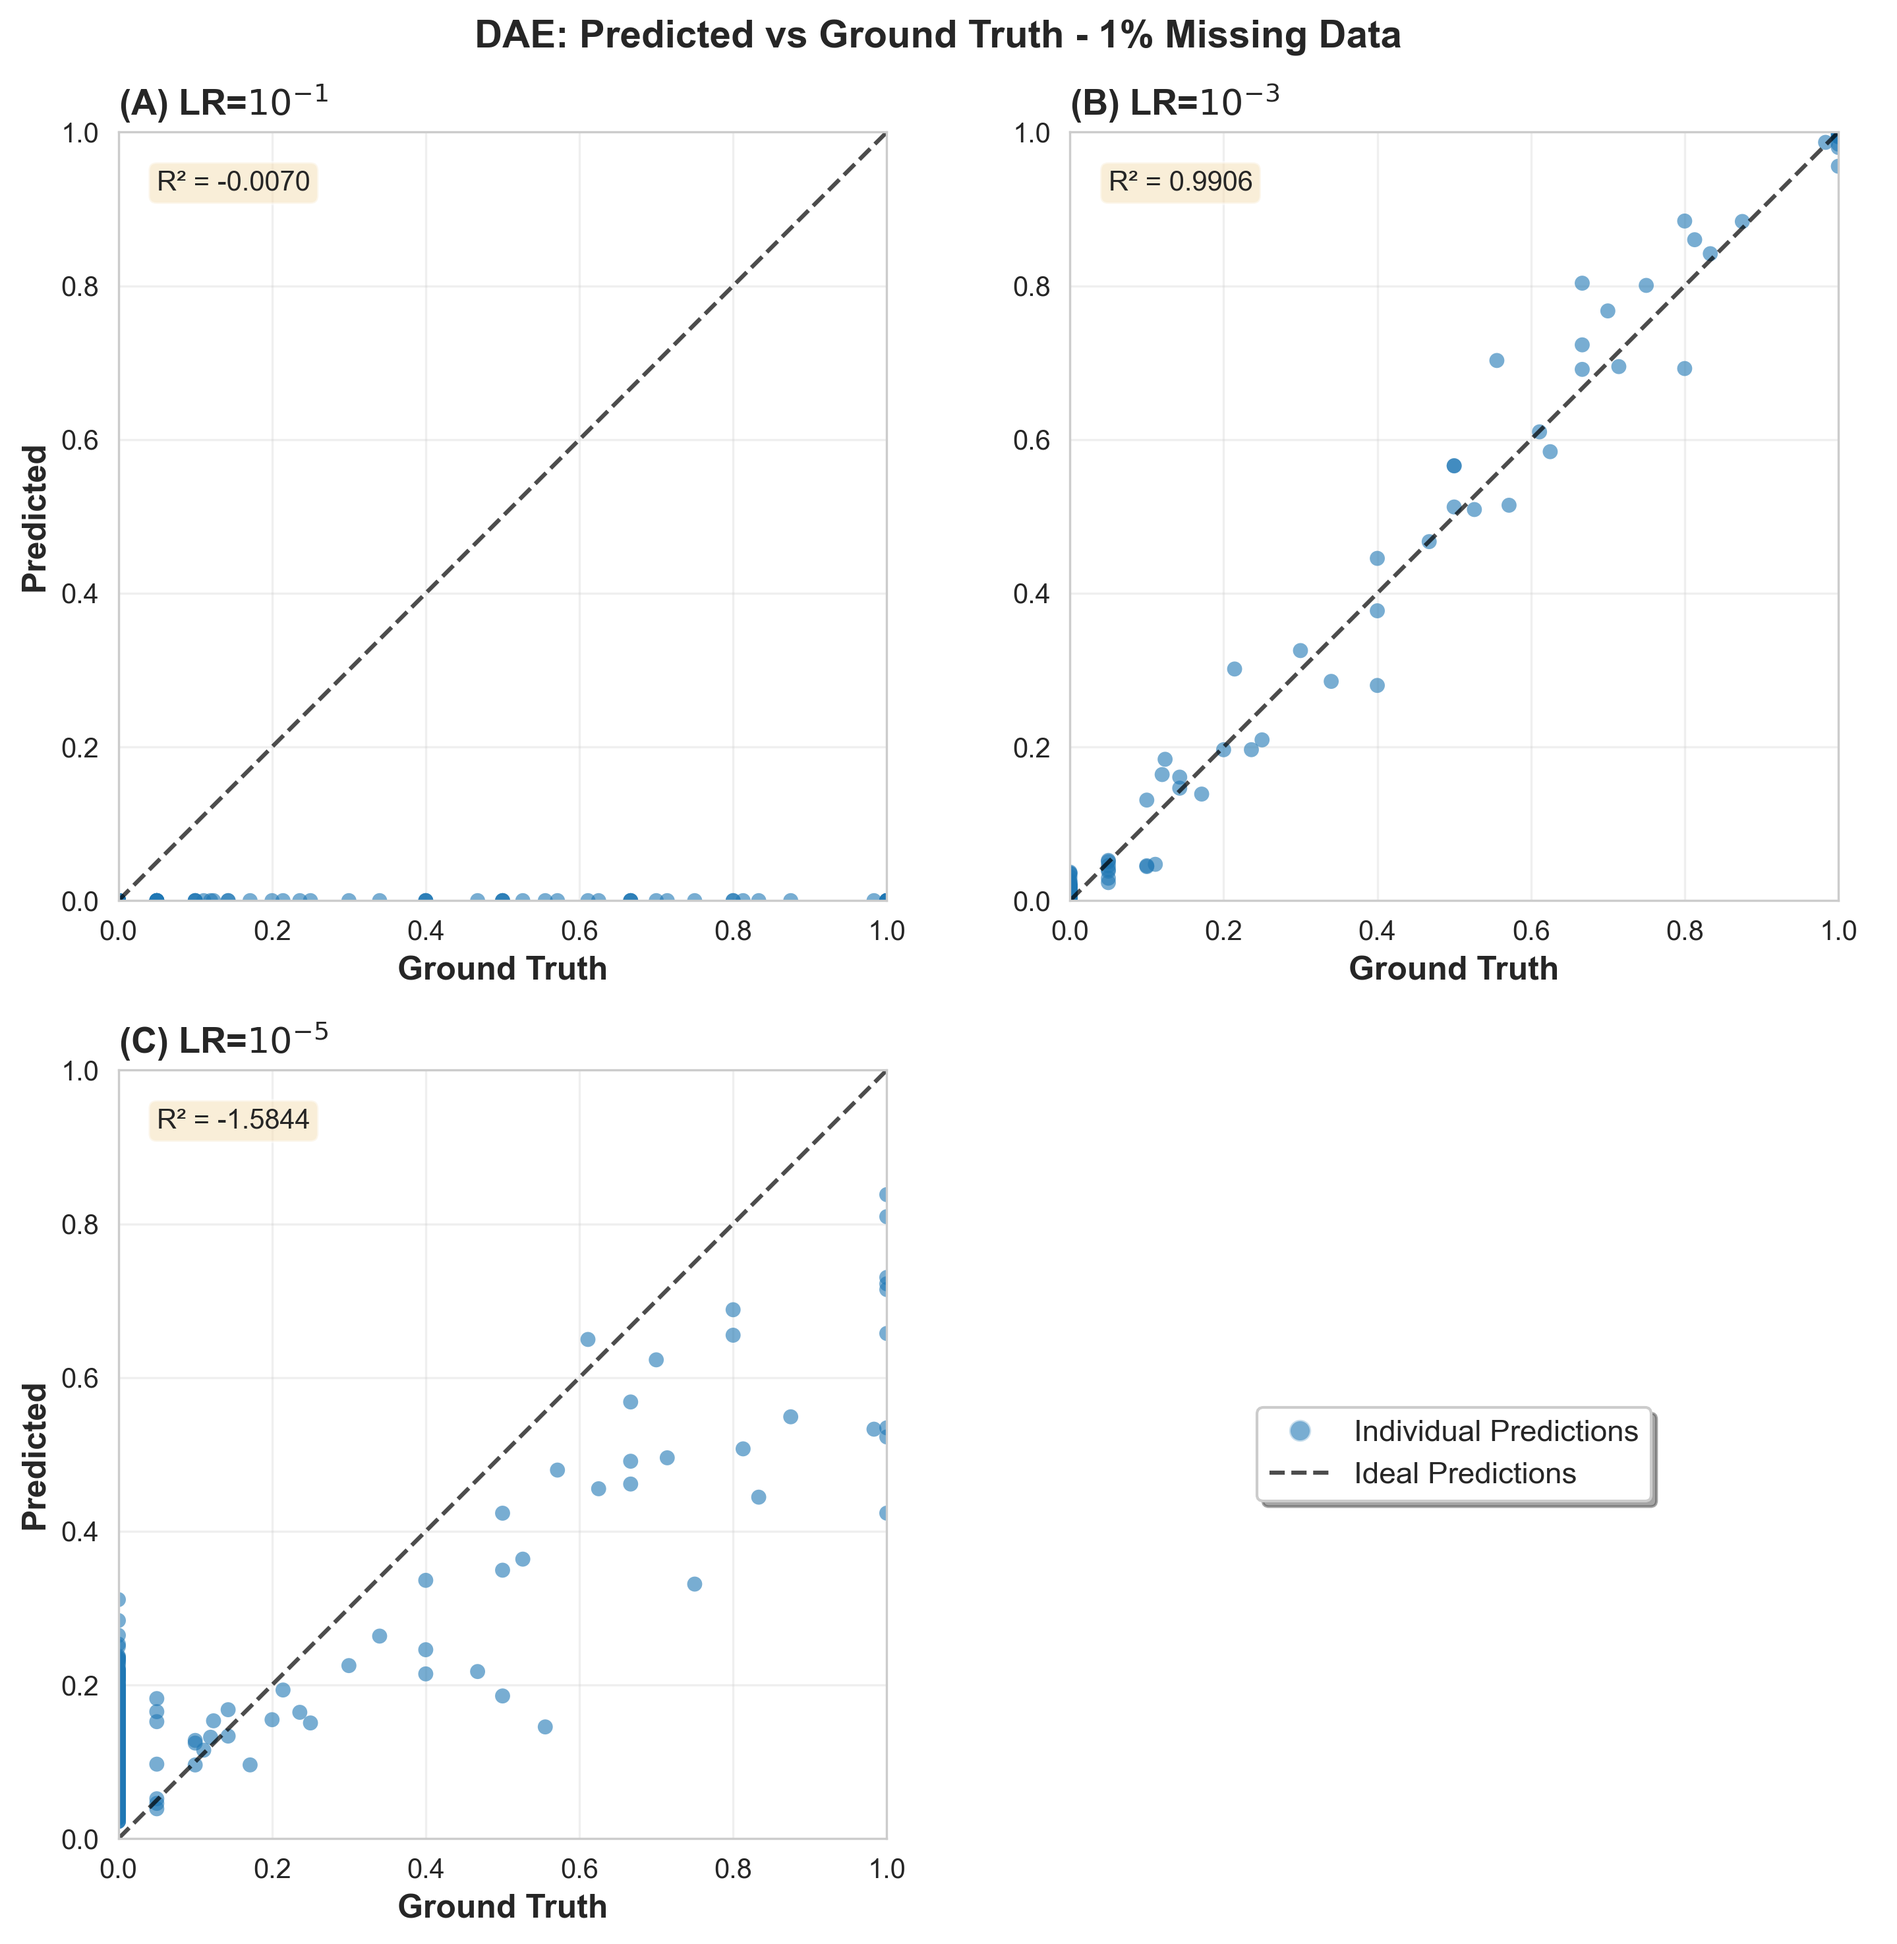
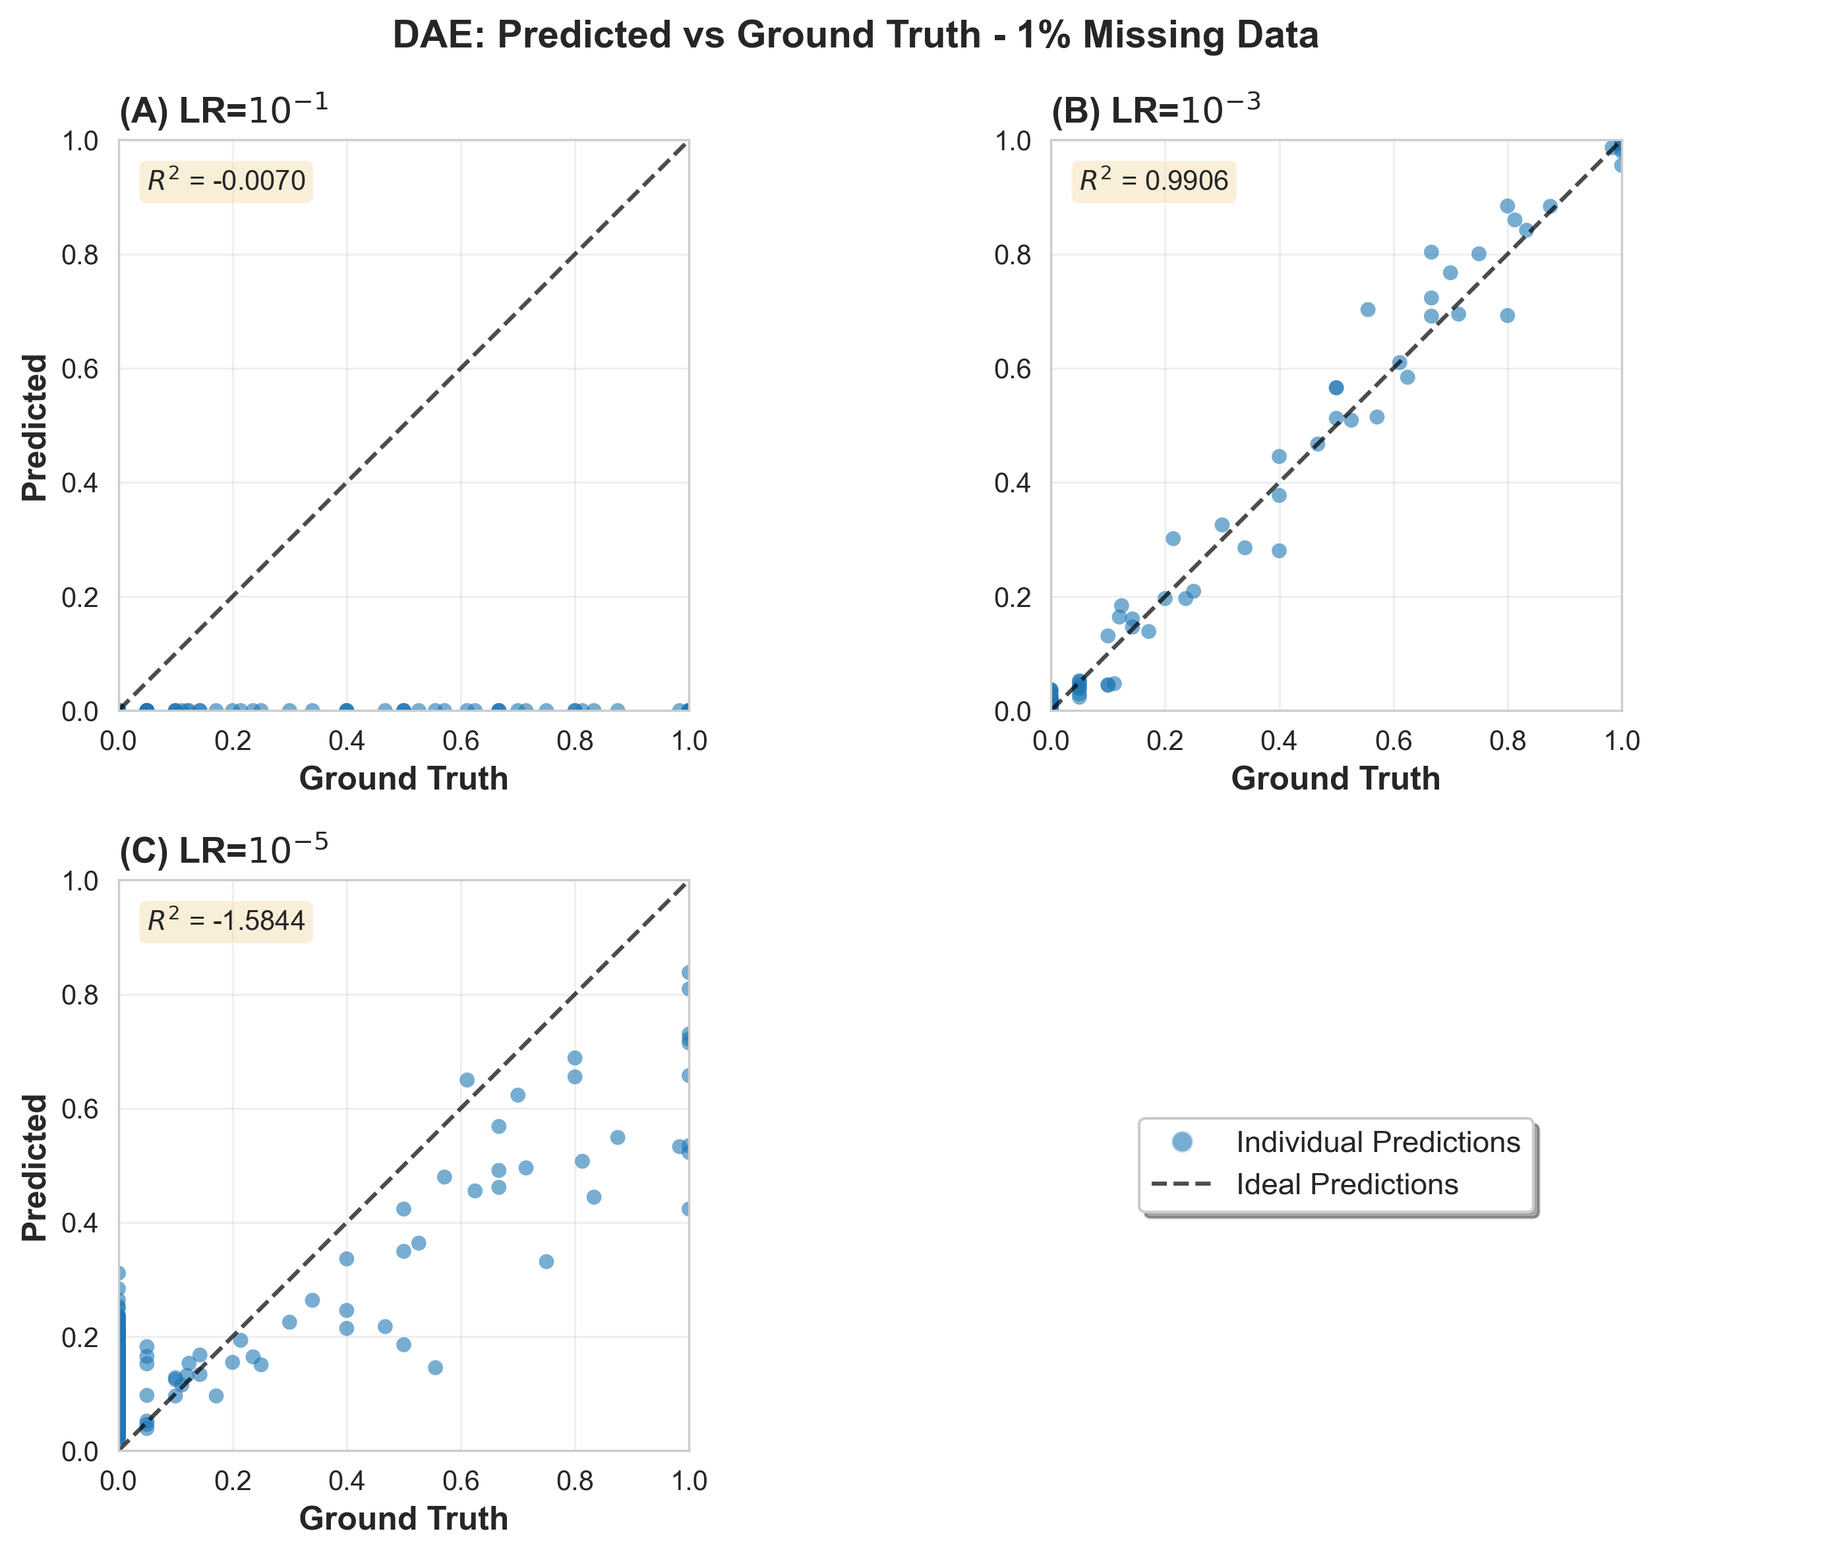
update plot size

diff --git a/src/knn/plots.py b/src/knn/plots.py
@@ -42,8 +42,8 @@ def plot_knn_r2_bars(
     metric_labels = ['Euclidean', 'Manhattan', 'Cosine']
 
     # Use 2x2 layout with legend in bottom-right
-    fig, axes = plt.subplots(2, 2, figsize=(12, 10))
-    fig.suptitle(f'KNN R² Scores - {missingness_rate*100:.0f}% Missing Data',
+    fig, axes = plt.subplots(2, 2, figsize=(10, 8))
+    fig.suptitle(r'KNN $R^2$ Scores - ' + f'{missingness_rate*100:.0f}% Missing Data',
                  fontsize=14, fontweight='bold')
     axes = axes.flatten()
 
@@ -91,7 +91,9 @@ def plot_knn_r2_bars(
                label='Distance', capsize=5, color=colors['distance'], alpha=0.8)
 
         ax.set_xlabel('K (Neighbors)', fontweight='bold')
-        ax.set_ylabel('R² Score' if idx % 2 == 0 else '', fontweight='bold')
+        # Add ylabel to left column (idx 0, 2) and top-right (idx 1)
+        if idx % 2 == 0 or idx == 1:
+            ax.set_ylabel(r'$R^2$ Score', fontweight='bold')
         ax.set_title(f'({chr(65+idx)}) {label} Distance', fontweight='bold', loc='left')
         ax.set_xticks(x)
         ax.set_xticklabels([str(k) for k in k_values])
@@ -170,7 +172,7 @@ def plot_knn_performance_summary(
         save_path: Path to save figure
         show: Whether to display the plot
     """
-    fig, (ax1, ax2) = plt.subplots(1, 2, figsize=(12, 5))
+    fig, (ax1, ax2) = plt.subplots(1, 2, figsize=(10, 4))
     fig.suptitle(f'KNN Performance Summary - {missingness_rate*100:.0f}% Missing Data',
                  fontsize=14, fontweight='bold')
 
@@ -193,8 +195,8 @@ def plot_knn_performance_summary(
                     label=label, color=colors[metric])
 
     ax1.set_xlabel('K (Neighbors)', fontweight='bold')
-    ax1.set_ylabel('R² Score', fontweight='bold')
-    ax1.set_title('(A) R² vs K (Distance-Weighted)', fontweight='bold', loc='left')
+    ax1.set_ylabel(r'$R^2$ Score', fontweight='bold')
+    ax1.set_title(r'(A) $R^2$ vs K (Distance-Weighted)', fontweight='bold', loc='left')
     ax1.legend(loc='best')
     ax1.grid(True, alpha=0.3)
     ax1.axhline(y=0, color='red', linestyle='--', linewidth=1, alpha=0.5)

diff --git a/src/dae/plots.py b/src/dae/plots.py
@@ -42,7 +42,7 @@ def plot_dae_loss_curves(
     lr_labels = [r'$10^{-1}$', r'$10^{-3}$', r'$10^{-5}$']
 
     # Use 2x2 layout with legend in bottom-right
-    fig, axes = plt.subplots(2, 2, figsize=(12, 10))
+    fig, axes = plt.subplots(2, 2, figsize=(10, 8))
     fig.suptitle(f'Loss Curves - {missingness_rate*100:.0f}% Missing Data',
                  fontsize=14, fontweight='bold')
     axes = axes.flatten()
@@ -71,7 +71,9 @@ def plot_dae_loss_curves(
                            alpha=0.8)
 
         ax.set_xlabel('Epochs', fontweight='bold')
-        ax.set_ylabel('Loss' if idx % 2 == 0 else '', fontweight='bold')
+        # Add ylabel to left column (idx 0, 2) and top-right (idx 1)
+        if idx % 2 == 0 or idx == 1:
+            ax.set_ylabel('Loss', fontweight='bold')
         ax.set_title(f'({chr(65+idx)}) LR={lr_label}',
                     fontweight='bold', loc='left')
         ax.grid(True, alpha=0.3)
@@ -135,8 +137,8 @@ def plot_dae_r2_bars(
     epoch_list = [100, 500, 1000, 1200]
 
     # Use 2x2 layout with legend in bottom-right
-    fig, axes = plt.subplots(2, 2, figsize=(12, 10))
-    fig.suptitle(f'R² Scores - {missingness_rate*100:.0f}% Missing Data',
+    fig, axes = plt.subplots(2, 2, figsize=(10, 8))
+    fig.suptitle(r'$R^2$ Scores - ' + f'{missingness_rate*100:.0f}% Missing Data',
                  fontsize=14, fontweight='bold')
     axes = axes.flatten()
 
@@ -170,7 +172,9 @@ def plot_dae_r2_bars(
                       alpha=0.8)
 
         ax.set_xlabel('Neurone size', fontweight='bold')
-        ax.set_ylabel('R²' if idx % 2 == 0 else '', fontweight='bold')
+        # Add ylabel to left column (idx 0, 2) and top-right (idx 1)
+        if idx % 2 == 0 or idx == 1:
+            ax.set_ylabel(r'$R^2$', fontweight='bold')
         ax.set_title(f'({chr(65+idx)}) LR={lr_label}', fontweight='bold', loc='left')
         ax.set_xticks(x_pos)
         ax.set_xticklabels(neuron_sizes)

diff --git a/src/common/visualization.py b/src/common/visualization.py
@@ -59,7 +59,7 @@ def plot_r2_comparison(
                label=method, color=colors[idx % len(colors)], alpha=0.8)
 
     ax.set_xlabel('Configuration', fontweight='bold')
-    ax.set_ylabel('R² Score', fontweight='bold')
+    ax.set_ylabel(r'$R^2$ Score', fontweight='bold')
     ax.set_title(title, fontweight='bold', fontsize=14)
     ax.set_xticks(x_pos)
     ax.set_xticklabels(x_labels)
@@ -119,7 +119,7 @@ def plot_predictions_vs_truth(
     if add_r2:
         from sklearn.metrics import r2_score
         r2 = r2_score(targets, predictions)
-        ax.text(0.05, 0.95, f'R² = {r2:.4f}',
+        ax.text(0.05, 0.95, r'$R^2$ = ' + f'{r2:.4f}',
                 transform=ax.transAxes, fontsize=11,
                 verticalalignment='top',
                 bbox=dict(boxstyle='round', facecolor='wheat', alpha=0.5))
@@ -172,7 +172,7 @@ def plot_multi_predictions_vs_truth(
     # Use 2x2 layout with shared legend in bottom-right if requested
     if use_shared_legend and num_plots == 3:
         num_rows, num_cols = 2, 2
-        fig, axes = plt.subplots(num_rows, num_cols, figsize=(10, 10))
+        fig, axes = plt.subplots(num_rows, num_cols, figsize=(10, 8))
         axes = axes.flatten()
     else:
         num_rows = (num_plots + num_cols - 1) // num_cols
@@ -204,7 +204,7 @@ def plot_multi_predictions_vs_truth(
         # Add R²
         from sklearn.metrics import r2_score
         r2 = r2_score(targets, predictions)
-        ax.text(0.05, 0.95, f'R² = {r2:.4f}',
+        ax.text(0.05, 0.95, r'$R^2$ = ' + f'{r2:.4f}',
                 transform=ax.transAxes, fontsize=10,
                 verticalalignment='top',
                 bbox=dict(boxstyle='round', facecolor='wheat', alpha=0.5))

diff --git a/src/comparison/plots.py b/src/comparison/plots.py
@@ -108,7 +108,7 @@ def plot_method_comparison(
         'Median': '#8c564b'
     }
 
-    fig, ax = plt.subplots(figsize=(12, 6))
+    fig, ax = plt.subplots(figsize=(10, 5))
 
     # Plot bars for each method
     for idx, (method_name, results) in enumerate(method_results.items()):
@@ -126,7 +126,7 @@ def plot_method_comparison(
                label=method_name, capsize=5, color=color, alpha=0.8)
 
     ax.set_xlabel('Missingness Rate', fontweight='bold')
-    ax.set_ylabel('R² Score', fontweight='bold')
+    ax.set_ylabel(r'$R^2$ Score', fontweight='bold')
     ax.set_title('Method Comparison: All Imputation Methods', fontweight='bold', fontsize=14)
     ax.set_xticks(x_pos)
     ax.set_xticklabels([f'{mr*100:.0f}%' for mr in missingness_rates])
@@ -160,7 +160,7 @@ def plot_performance_vs_time(
         save_path: Path to save figure
         show: Whether to display plot
     """
-    fig, axes = plt.subplots(1, 3, figsize=(15, 4))
+    fig, axes = plt.subplots(1, 3, figsize=(12, 3.5))
     fig.suptitle('Performance vs. Computational Time Trade-off', fontweight='bold', fontsize=14)
 
     missingness_rates = [0.01, 0.05, 0.10]
@@ -207,7 +207,7 @@ def plot_performance_vs_time(
                           color=color, marker=marker, label=method_name)
 
         ax.set_xlabel('Time (log scale)', fontweight='bold')
-        ax.set_ylabel('R² Score' if idx == 0 else '', fontweight='bold')
+        ax.set_ylabel(r'$R^2$ Score' if idx == 0 else '', fontweight='bold')
         ax.set_title(f'({chr(65+idx)}) {miss_rate*100:.0f}% Missing', fontweight='bold', loc='left')
         ax.set_xscale('log')
         ax.legend(loc='best')
